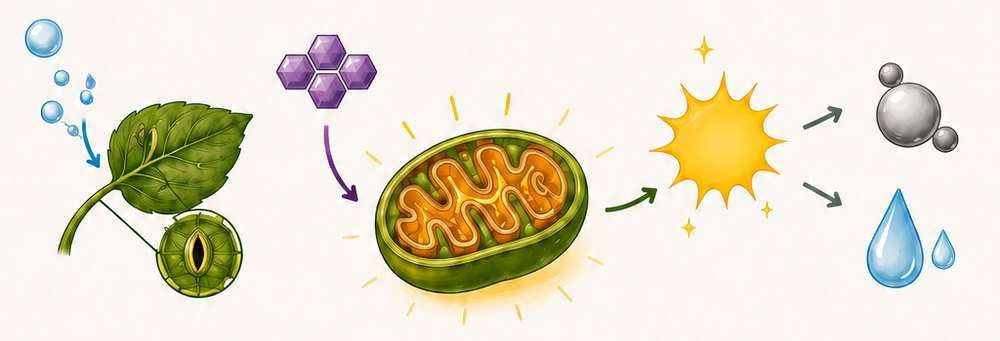
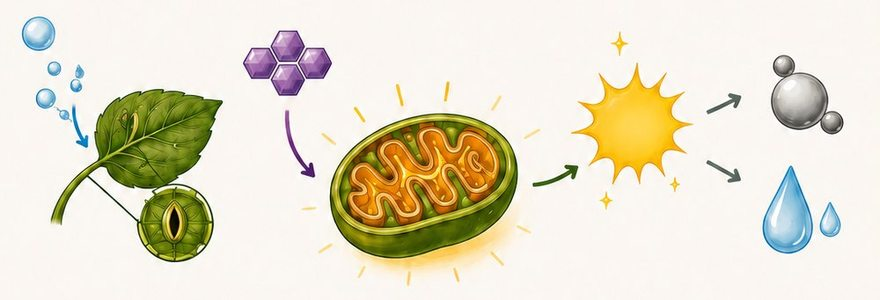
komprimieren

diff --git a/interaktiv/pflanzen-energie.html b/interaktiv/pflanzen-energie.html
@@ -320,7 +320,7 @@
 
     <div class="pe-interactive" data-steps="photo">
       <div class="pe-diagram-wrap">
-        <img src="../images/photosynthese_leer.jpg" alt="Photosynthese: Pflanze baut aus Licht, Wasser und Kohlendioxid Zucker und gibt Sauerstoff ab.">
+        <img src="../images/photosynthese_leer.jpg" width="880" height="1320" decoding="async" fetchpriority="high" alt="Photosynthese: Pflanze baut aus Licht, Wasser und Kohlendioxid Zucker und gibt Sauerstoff ab.">
         <button class="num-btn" data-num="1" style="left:26%; top:19%;">1</button>
         <button class="num-btn" data-num="2" style="left:66%; top:21%;">2</button>
         <button class="num-btn" data-num="3" style="left:21%; top:62%;">3</button>
@@ -358,7 +358,7 @@
 
     <div class="pe-interactive" data-steps="atmung">
       <div class="pe-diagram-wrap">
-        <img src="../images/atmung_leer.jpg" alt="Zellatmung: Sauerstoff und Zucker werden im Mitochondrium zu Energie (ATP) – dabei entstehen Kohlendioxid und Wasser.">
+        <img src="../images/atmung_leer.jpg" width="880" height="300" decoding="async" alt="Zellatmung: Sauerstoff und Zucker werden im Mitochondrium zu Energie (ATP) – dabei entstehen Kohlendioxid und Wasser.">
         <button class="num-btn" data-num="1" style="left:15%; top:48%;">1</button>
         <button class="num-btn" data-num="2" style="left:30%; top:20%;">2</button>
         <button class="num-btn" data-num="3" style="left:43%; top:38%;">3</button>
@@ -392,7 +392,7 @@
 
   <!-- 3) Atmung – Zusatz-Grafik in voller Größe -->
   <section class="karte karte-voll" data-teil="atmung">
-    <img src="../images/atmung_rest.jpg" alt="Atmung im Detail: Was passiert genau? – Warum atmen wir und Pflanzen? – die Küchen-Analogie und das Wichtigste in Kürze.">
+    <img src="../images/atmung_rest.jpg" width="880" height="1854" decoding="async" loading="lazy" alt="Atmung im Detail: Was passiert genau? – Warum atmen wir und Pflanzen? – die Küchen-Analogie und das Wichtigste in Kürze.">
   </section>
 
   <!-- 4) Lückentext-Quiz -->

diff --git a/sw.js b/sw.js
@@ -9,7 +9,7 @@
    die alten Dateien automatisch auf.
 */
 
-const CACHE_NAME = 'mibaso-natur-v66';
+const CACHE_NAME = 'mibaso-natur-v67';
 
 // Wichtige Dateien, die für den App-Start gebraucht werden (Hub + Icons + Manifest).
 const APP_SHELL = [
